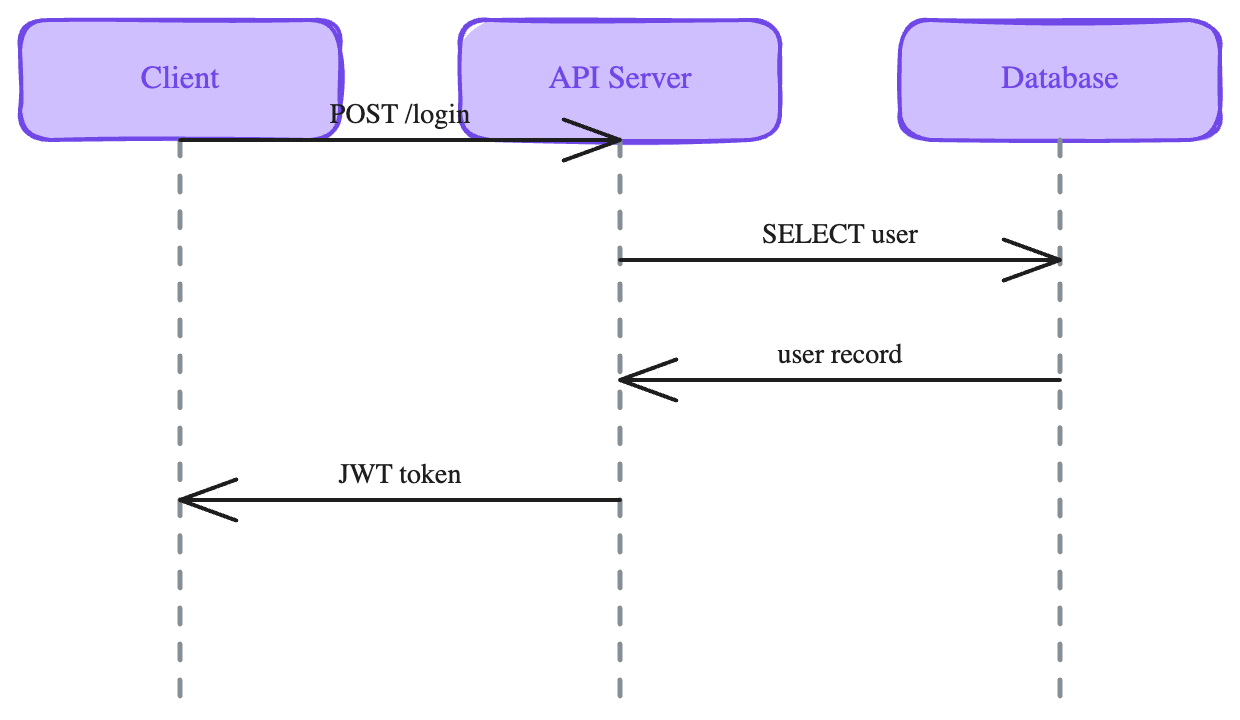
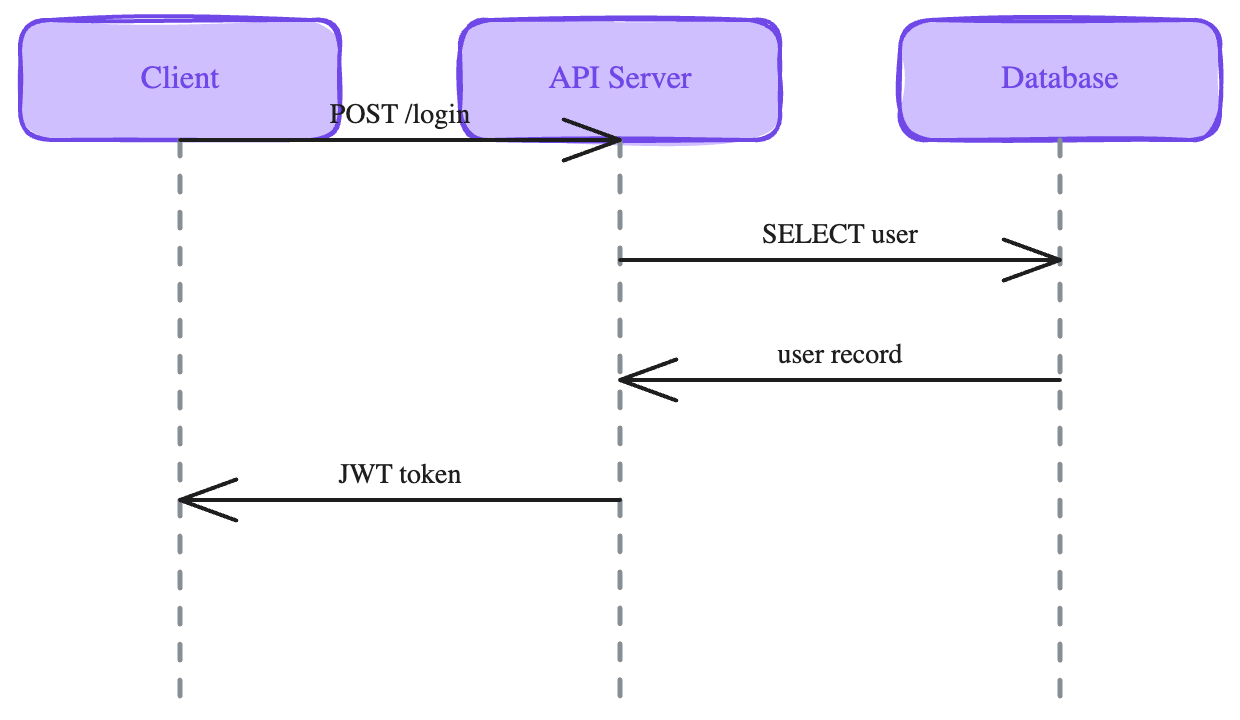
docs: add iteration features page and fix arrow overlap in examples
- Add "Iterating on Diagrams" page documenting sidecar workflow,
  fromFile editing, change summaries, stats, validation, and Mermaid import
- Fix CI/CD and data pipeline examples: switch from LR layout (arrows
  overlapping text) to TB layout with incremental rows
- Regenerate all example PNGs

diff --git a/docs/generate-examples.ts b/docs/generate-examples.ts
@@ -54,11 +54,11 @@ async function generateAwsInfra() {
 }
 
 async function generateDataPipeline() {
-  const d = new Diagram({ direction: "LR" });
+  const d = new Diagram();
   const kafka = d.addBox("Kafka", { row: 0, col: 0, color: "queue" });
-  const flink = d.addBox("Flink", { row: 0, col: 1, color: "backend" });
-  const clickhouse = d.addBox("ClickHouse", { row: 0, col: 2, color: "database" });
-  const grafana = d.addBox("Grafana", { row: 0, col: 3, color: "frontend" });
+  const flink = d.addBox("Flink", { row: 1, col: 0, color: "backend" });
+  const clickhouse = d.addBox("ClickHouse", { row: 2, col: 0, color: "database" });
+  const grafana = d.addBox("Grafana", { row: 3, col: 0, color: "frontend" });
 
   d.connect(kafka, flink, "stream");
   d.connect(flink, clickhouse, "write");
@@ -82,12 +82,12 @@ async function generateSequence() {
 }
 
 async function generateCicd() {
-  const d = new Diagram({ direction: "LR" });
+  const d = new Diagram();
   const github = d.addBox("GitHub", { row: 0, col: 0, color: "external" });
-  const build = d.addBox("Build", { row: 0, col: 1, color: "backend" });
-  const test = d.addBox("Test", { row: 0, col: 2, color: "ai" });
-  const staging = d.addBox("Staging", { row: 0, col: 3, color: "cache" });
-  const prod = d.addBox("Production", { row: 0, col: 4, color: "database" });
+  const build = d.addBox("Build", { row: 1, col: 0, color: "backend" });
+  const test = d.addBox("Test", { row: 2, col: 0, color: "ai" });
+  const staging = d.addBox("Staging", { row: 3, col: 0, color: "cache" });
+  const prod = d.addBox("Production", { row: 4, col: 0, color: "database" });
 
   d.connect(github, build, "push");
   d.connect(build, test, "artifacts");
